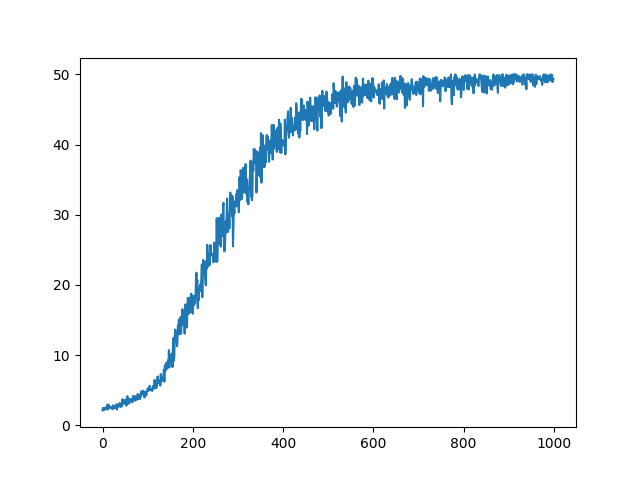
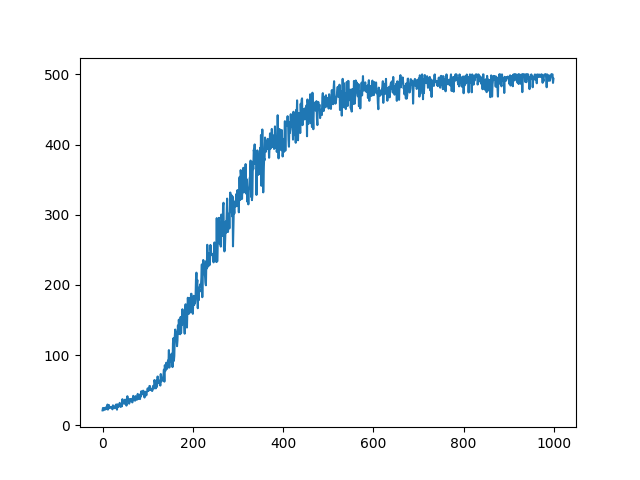
Changed to A2C from ActorCritic v2

diff --git a/ActorCritic/utils.py b/ActorCritic/utils.py
@@ -6,13 +6,13 @@ import jax
 from jax import numpy as jnp
 
 
-def calculate_returns(rewards, gamma: float = 0.99, mask=None):
+def calculate_returns(rewards, last_val, gamma: float = 0.99, mask=None):
     def step_fn(R, data):
         reward, mask = data
         R = reward + R * gamma * mask
         return R, R
 
-    _, returns = jax.lax.scan(step_fn, 0.0, (rewards, mask), reverse=True)
+    _, returns = jax.lax.scan(step_fn, last_val, (rewards, mask), reverse=True)
     return returns
 
 
@@ -41,8 +41,8 @@ def run_episode(
         }
 
     init_carry = (obs, state, rng, 0.0)
-    _, trajectories = jax.lax.scan(step_fn, init_carry, length=steps)
-    return trajectories
+    final_state, trajectories = jax.lax.scan(step_fn, init_carry, length=steps)
+    return final_state[0], trajectories
 
 
 def normalize(val_arr, mask):
@@ -53,10 +53,12 @@ def normalize(val_arr, mask):
     return jnp.divide(jnp.subtract(val_arr, mean), std)
 
 
-def actor_critic_loss(model: ActorCriticNetwork, rewards, action, obs, valid_mask=None):
+def actor_critic_loss(
+    model: ActorCriticNetwork, rewards, action, obs, valid_mask=None, last_obs=None
+):
     valid_mask = jnp.array(valid_mask)
-    returns = jax.vmap(calculate_returns, in_axes=(0, None, 0), out_axes=0)(
-        jnp.array(rewards), 0.99, valid_mask
+    returns = jax.vmap(calculate_returns, in_axes=(0, 0, None, 0), out_axes=0)(
+        jnp.array(rewards), model.value(last_obs)[..., 0], 0.99, valid_mask
     )
     returns = jax.vmap(normalize, in_axes=(0, 0), out_axes=0)(returns, valid_mask)
     returns = jax.lax.stop_gradient(returns)
@@ -83,9 +85,11 @@ def actor_critic_loss(model: ActorCriticNetwork, rewards, action, obs, valid_mas
     return value_loss * 0.5 + policy_loss
 
 
-def actor_critic_update(model, optimizer, rewards, action, obs, valid_mask: Any = None):
+def actor_critic_update(
+    model, optimizer, rewards, action, obs, valid_mask: Any = None, last_obs=None
+):
     grad = nnx.grad(actor_critic_loss, argnums=0)(
-        model, rewards, action, obs, valid_mask
+        model, rewards, action, obs, valid_mask, last_obs
     )
 
     optimizer.update(model, grad)

diff --git a/ActorCritic/train.py b/ActorCritic/train.py
@@ -41,7 +41,9 @@ def train_v3(model: ActorCriticNetwork, optimizer: nnx.Optimizer):
         #     env_params,
         #     episode_run
         # )
-        trajectories = vmapped_run_episode(model, jax.random.split(episode_run, 50))
+        last_obs, trajectories = vmapped_run_episode(
+            model, jax.random.split(episode_run, 50)
+        )
 
         actor_critic_update(
             model,
@@ -50,12 +52,15 @@ def train_v3(model: ActorCriticNetwork, optimizer: nnx.Optimizer):
             trajectories.get("action"),
             trajectories.get("obs"),
             trajectories.get("valid_mask"),
+            last_obs,
         )
         # print(trajectories.get("reward").shape)
         # exit(0)
-
-        episodic_reward = jax.numpy.sum(
-            jax.numpy.mean(trajectories.get("reward"), axis=1)
+        # rewards = jax.numpy.array(trajectories.get("reward"))
+        # print("rewards.shape =", rewards.shape)
+        # exit()
+        episodic_reward = jax.numpy.mean(
+            jax.numpy.sum(trajectories.get("reward"), axis=-1)
         )
 
         episodic_rewards = episodic_rewards.at[i].set(episodic_reward)
